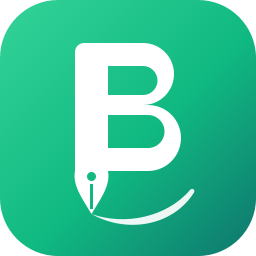
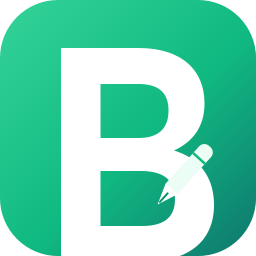
Polish Bidderr branding and update controls

Changed region(s): [[0.2188, 0.1562, 0.8438, 1.0]]

diff --git a/electron/copySelection.js b/electron/copySelection.js
@@ -5,34 +5,77 @@ const { clipboard } = require('electron');
 const koffi = require('koffi');
 
 const user32 = koffi.load('user32.dll');
+
+// INPUT for a key press, laid out like the 64-bit Windows struct (40 bytes).
+const INPUT = koffi.struct('BIDDERR_KEY_INPUT', {
+  type: 'uint32',
+  pad1: 'uint32',
+  wVk: 'uint16',
+  wScan: 'uint16',
+  dwFlags: 'uint32',
+  time: 'uint32',
+  dwExtraInfo: 'uint64',
+  pad2: 'uint64',
+});
+
+const SendInput = user32.func('uint32 __stdcall SendInput(uint32 cInputs, BIDDERR_KEY_INPUT *pInputs, int cbSize)');
+const MapVirtualKeyW = user32.func('uint32 __stdcall MapVirtualKeyW(uint32 uCode, uint32 uMapType)');
 const GetAsyncKeyState = user32.func('int16 __stdcall GetAsyncKeyState(int vKey)');
 const GetClipboardSequenceNumber = user32.func('uint32 __stdcall GetClipboardSequenceNumber()');
-const keybd_event = user32.func('void __stdcall keybd_event(uint8 bVk, uint8 bScan, uint32 dwFlags, uintptr_t dwExtraInfo)');
+const GetForegroundWindow = user32.func('void * __stdcall GetForegroundWindow()');
+const GetWindowTextW = user32.func('int __stdcall GetWindowTextW(void *hWnd, _Out_ uint16_t *lpString, int nMaxCount)');
 
-const VK = { SHIFT: 0x10, CONTROL: 0x11, MENU: 0x12, C: 0x43, ONE: 0x31 };
-const KEYUP = 0x0002;
+const VK = { SHIFT: 0x10, CONTROL: 0x11, MENU: 0x12, LWIN: 0x5b, C: 0x43, ONE: 0x31 };
+const KEYEVENTF_KEYUP = 0x0002;
+const INPUT_SIZE = koffi.sizeof(INPUT);
 
 const sleep = (ms) => new Promise((r) => setTimeout(r, ms));
 const isDown = (vk) => (GetAsyncKeyState(vk) & 0x8000) !== 0;
-const key = (vk, up) => keybd_event(vk, 0, up ? KEYUP : 0, 0);
 
-// Wait (briefly) for the user to let go of Shift, Alt and 1, otherwise the app we send Ctrl+C to
-// would see Ctrl+Shift+C. Keys still held after that are released for them.
-async function waitForHotkeyRelease() {
-  const keys = [VK.SHIFT, VK.MENU, VK.ONE];
-  for (let i = 0; i < 40 && keys.some(isDown); i++) await sleep(15);
-  for (const vk of keys) if (isDown(vk)) key(vk, true);
+// Sends key events like a real keyboard (virtual key + hardware scan code).
+function sendKeys(events) {
+  const inputs = events.map(([vk, up]) => ({
+    type: 1, // INPUT_KEYBOARD
+    pad1: 0,
+    wVk: vk,
+    wScan: MapVirtualKeyW(vk, 0),
+    dwFlags: up ? KEYEVENTF_KEYUP : 0,
+    time: 0,
+    dwExtraInfo: 0,
+    pad2: 0,
+  }));
+  return SendInput(inputs.length, inputs, INPUT_SIZE);
 }
 
-// Returns { text, copied }. copied=false means nothing was selected, so the text is whatever
-// was already in the clipboard (the "copy first, then press the hotkey" way still works).
+function foregroundTitle() {
+  const buf = new Uint16Array(256);
+  const n = GetWindowTextW(GetForegroundWindow(), buf, 256);
+  return String.fromCharCode(...buf.slice(0, Math.max(0, n)));
+}
+
+// Wait for the user to let go of the hotkey (Ctrl, Shift, Alt, 1), so the app we send Ctrl+C to
+// sees a clean Ctrl+C and not Ctrl+Shift+C. Anything still held after ~1s is released for them.
+async function waitForHotkeyRelease() {
+  const keys = [VK.CONTROL, VK.SHIFT, VK.MENU, VK.LWIN, VK.ONE];
+  for (let i = 0; i < 70 && keys.some(isDown); i++) await sleep(15);
+  const stuck = keys.filter(isDown);
+  if (stuck.length) sendKeys(stuck.map((vk) => [vk, true]));
+  await sleep(30);
+}
+
+// Returns { text, copied, info }. copied=false means nothing was selected, so the text is
+// whatever was already in the clipboard ("copy first, then press the hotkey" still works).
 async function copySelection() {
   await waitForHotkeyRelease();
+  const window = foregroundTitle();
   const before = GetClipboardSequenceNumber();
-  key(VK.CONTROL, false);
-  key(VK.C, false);
-  key(VK.C, true);
-  key(VK.CONTROL, true);
+  const sent = sendKeys([
+    [VK.CONTROL, false],
+    [VK.C, false],
+    [VK.C, true],
+    [VK.CONTROL, true],
+  ]);
+  const info = `window="${window}" sent=${sent}/4`;
 
   for (let i = 0; i < 60; i++) {
     await sleep(25);
@@ -41,12 +84,12 @@ async function copySelection() {
       for (let j = 0; j < 10; j++) {
         await sleep(30);
         const text = clipboard.readText();
-        if (text.trim()) return { text, copied: true };
+        if (text.trim()) return { text, copied: true, info };
       }
       break;
     }
   }
-  return { text: clipboard.readText(), copied: false };
+  return { text: clipboard.readText(), copied: false, info };
 }
 
 module.exports = { copySelection };

diff --git a/shared/proposal.js b/shared/proposal.js
@@ -91,7 +91,8 @@ OUTPUT RULES:
       body: JSON.stringify({
         systemInstruction: { parts: [{ text: prompt }] },
         contents: [{ role: 'user', parts: [{ text: `JOB POSTING:\n\n${jobText}` }] }],
-        generationConfig: { temperature: 0.8, maxOutputTokens: 2048 },
+        // Newer models "think" first and that counts against this limit, so keep it roomy.
+        generationConfig: { temperature: 0.8, maxOutputTokens: 8192 },
       }),
     });
     const data = await res.json().catch(() => ({}));
@@ -100,8 +101,14 @@ OUTPUT RULES:
       err.status = res.status;
       throw err;
     }
-    const text = (data?.candidates?.[0]?.content?.parts || []).map((p) => p.text || '').join('');
-    if (!text.trim()) throw new Error('Google sent back an empty answer. Try again.');
+    const parts = data?.candidates?.[0]?.content?.parts || [];
+    const text = parts.filter((p) => !p.thought).map((p) => p.text || '').join('');
+    if (!text.trim()) {
+      // Empty or cut off: let the next model try (status 503 means "try another model").
+      const err = new Error('Google sent back an empty answer. Try again.');
+      err.status = 503;
+      throw err;
+    }
     return text;
   }
 
@@ -113,16 +120,19 @@ OUTPUT RULES:
     if (!apiKey) throw new Error('No API key yet. Open Settings and paste your free Google key.');
     if (job.length < 30) throw new Error('Copy the job posting first (the clipboard text is too short).');
 
+    const isKeyProblem = (e) => e.status === 403 || (e.status === 400 && /api.?key/i.test(e.message));
     let lastError;
     for (const model of models) {
       try {
         return formatProposal(await callGemini(model, apiKey, (prompt || '').trim() || DEFAULT_PROMPT, job.slice(0, 15000), fetchImpl, apiBase));
       } catch (e) {
         lastError = e;
-        if (!RETRY_NEXT_MODEL.has(e.status)) break;
+        // A bad key fails for every model, so stop. Other errors (model missing, busy, out of
+        // free quota, model can't do this request) may work with the next model.
+        if (isKeyProblem(e) || !(RETRY_NEXT_MODEL.has(e.status) || e.status === 400)) break;
       }
     }
-    if (lastError?.status === 400 || lastError?.status === 403) {
+    if (isKeyProblem(lastError)) {
       throw new Error('Google did not accept the API key. Please check it.');
     }
     if (lastError?.status === 429) {

diff --git a/android/app/src/main/assets/app.js b/android/app/src/main/assets/app.js
@@ -145,17 +145,40 @@ function isNewer(latest, current) {
 }
 
 async function checkForUpdate() {
-  if (!installedVersion) return;
+  const button = $('update');
+  const title = $('update-title');
+  const note = $('update-note');
+  if (!installedVersion) {
+    setNote(note, 'Could not read the installed version. Restart the app and try again.', 'error');
+    return;
+  }
+  button.disabled = true;
+  button.textContent = 'Checking...';
+  setNote(note, '', '');
   try {
-    const release = await (await fetch(RELEASES_API)).json();
+    const response = await fetch(RELEASES_API);
+    if (!response.ok) throw new Error(`HTTP ${response.status}`);
+    const release = await response.json();
     const latest = String(release.tag_name || '').replace(/^v/, '');
     const apk = (release.assets || []).find((a) => a.name.endsWith('.apk'));
-    if (!latest || !apk || !isNewer(latest, installedVersion)) return;
+    if (!latest || !apk) throw new Error('Release APK not found');
+    if (!isNewer(latest, installedVersion)) {
+      updateUrl = '';
+      title.textContent = 'You’re up to date';
+      setNote(note, `Installed version ${installedVersion}. Latest version ${latest}.`, 'ok');
+      button.textContent = 'Check again';
+      return;
+    }
     updateUrl = apk.browser_download_url;
-    $('update-title').textContent = `Update available: ${latest}`;
-    $('update-card').classList.remove('hidden');
+    title.textContent = `Update available: ${latest}`;
+    setNote(note, `Installed version ${installedVersion}.`, '');
+    button.textContent = 'Update now';
   } catch {
-    // Offline: try again next time the app opens.
+    title.textContent = 'Could not check for updates';
+    setNote(note, 'Check your internet connection, then try again.', 'error');
+    button.textContent = 'Try again';
+  } finally {
+    button.disabled = false;
   }
 }
 
@@ -170,7 +193,10 @@ window.onUpdateStatus = (state) => {
   setNote($('update-note'), text, kind);
   $('update').disabled = state === 'downloading';
 };
-$('update').addEventListener('click', () => window.Android?.installUpdate(updateUrl));
+$('update').addEventListener('click', () => {
+  if (updateUrl) window.Android?.installUpdate(updateUrl);
+  else checkForUpdate();
+});
 
 // ---------- start ----------
 

diff --git a/android/app/src/main/assets/index.html b/android/app/src/main/assets/index.html
@@ -12,9 +12,12 @@
     <svg class="logo" viewBox="0 0 512 512" aria-hidden="true">
       <defs><linearGradient id="tile" x1="0" y1="0" x2="1" y2="1"><stop offset="0" stop-color="#34d399"/><stop offset="0.55" stop-color="#10b981"/><stop offset="1" stop-color="#0f766e"/></linearGradient></defs>
       <rect width="512" height="512" rx="116" fill="url(#tile)"/>
-      <g transform="translate(0 -18)">
-        <path fill="#fff" fill-rule="evenodd" d="M168 104H286A62 62 0 0 1 286 228H296A66 66 0 0 1 296 360H216C222 390 198 420 183 446C168 420 144 390 150 360V122A18 18 0 0 1 168 104ZM216 150H286A29 29 0 0 1 286 208H216ZM216 248H296A33 33 0 0 1 296 314H216ZM174 371A9 9 0 1 0 192 371A9 9 0 1 0 174 371ZM180 386H186V436H180Z"/>
-        <path fill="#fff" fill-opacity="0.92" d="M183 446C250 470 334 452 380 398C384 393 391 397 388 403C346 470 254 486 183 446Z"/>
+      <path fill="#fff" fill-rule="evenodd" d="M122 96h155c85 0 132 43 132 111 0 45-22 76-61 94 52 16 80 54 80 109 0 75-54 114-143 114H122V96zm79 72v108h76c40 0 60-19 60-55s-20-53-60-53h-76zm0 174v110h83c44 0 66-17 66-54 0-38-23-56-68-56h-81z"/>
+      <g transform="rotate(42 370 348)">
+        <rect x="354" y="274" width="32" height="125" rx="14" fill="#ecfdf5"/>
+        <path d="M354 388h32l-16 42z" fill="#fff"/>
+        <path d="M370 400v23" fill="none" stroke="#059669" stroke-width="4" stroke-linecap="round"/>
+        <path d="M355 306h30" stroke="#10b981" stroke-width="5" stroke-linecap="round"/>
       </g>
     </svg>
     <div>
@@ -24,9 +27,9 @@
     <span id="ready-pill" class="pill">Loading</span>
   </header>
 
-  <section id="update-card" class="card highlight hidden">
-    <div class="card-head"><h2 id="update-title">Update available</h2></div>
-    <button id="update" class="btn primary block">Update now</button>
+  <section id="update-card" class="card highlight">
+    <div class="card-head"><h2 id="update-title">App updates</h2></div>
+    <button id="update" class="btn primary block">Check for updates</button>
     <p id="update-note" class="note"></p>
   </section>
 

diff --git a/electron/main.js b/electron/main.js
@@ -121,7 +121,7 @@ async function writeProposal({ fromSelection = false } = {}) {
     if (fromSelection) {
       const result = await copySelection();
       job = result.text;
-      log(`[copy] selection copied=${result.copied}, ${job.length} chars`);
+      log(`[copy] selection copied=${result.copied}, ${job.length} chars, ${result.info}`);
     }
     showHud('working', 'Writing your proposal...', 'This takes a few seconds');
     lastProposal = await generateProposal(job, getApiKey(), { prompt: getPrompt(), apiBase: API_BASE });
